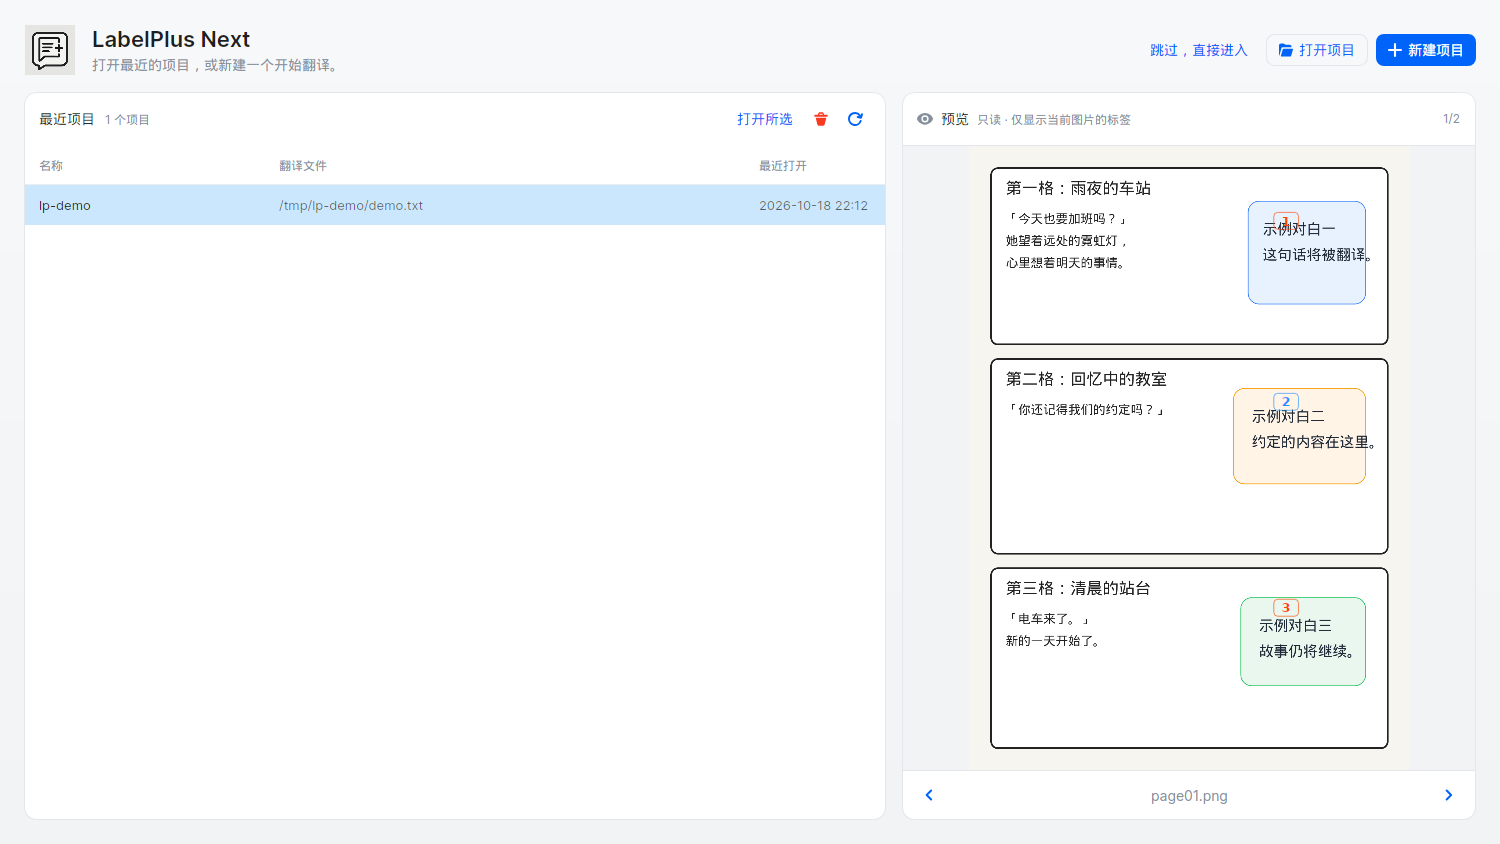
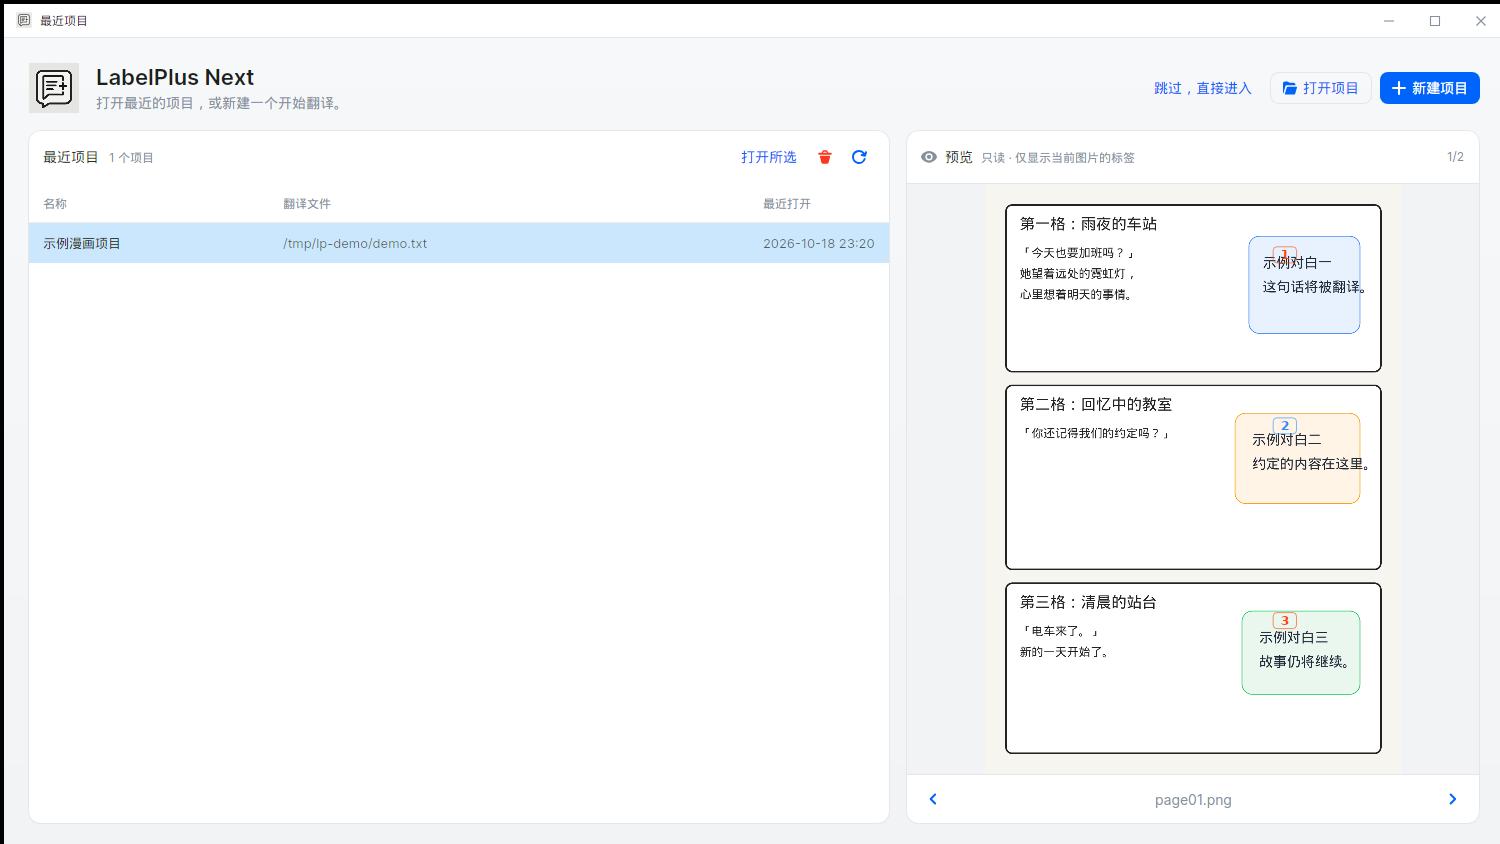
feat(ui): add an app-drawn title bar and fix the zoom display
- add a reusable ChromeTitleBar with drag, double-click maximize and caption buttons
- switch the main and startup windows to BorderOnly window decorations and hide the native title bar
- keep native resize borders while drawing the complete title bar in the app theme
- replace the zoom ComboBox with an always-visible percentage stepper (reset on click)
- add a drag threshold before starting label reordering to stop accidental row movement
- refresh screenshots for the new chrome and zoom control

diff --git a/LabelPlus_Next/Views/Pages/TranslateView.axaml.cs b/LabelPlus_Next/Views/Pages/TranslateView.axaml.cs
@@ -31,6 +31,10 @@ public partial class TranslateView : UserControl
     private static readonly DataFormat<LabelItem> DragDataFormat =
         DataFormat.CreateInProcessFormat<LabelItem>("application/x-labelplus-labelitem");
     private Control? _lastDropHintRow;
+    private LabelItem? _dragCandidate;
+    private PointerPressedEventArgs? _dragStartArgs;
+    private Point _dragStartPosition;
+    private const double DragThreshold = 4;
 
     public TranslateView() { InitializeComponent(); }
 
@@ -59,6 +63,8 @@ public partial class TranslateView : UserControl
             _labelsGrid.GotFocus += OnGridGotFocus;
             // 拖拽排序事件
             _labelsGrid.AddHandler(InputElement.PointerPressedEvent, OnGridPointerPressed, RoutingStrategies.Tunnel);
+            _labelsGrid.AddHandler(InputElement.PointerMovedEvent, OnGridPointerMoved, RoutingStrategies.Tunnel);
+            _labelsGrid.AddHandler(InputElement.PointerReleasedEvent, OnGridPointerReleased, RoutingStrategies.Tunnel);
             _labelsGrid.AddHandler(DragDrop.DragOverEvent, OnGridDragOver, RoutingStrategies.Bubble);
             _labelsGrid.AddHandler(DragDrop.DropEvent, OnGridDrop, RoutingStrategies.Bubble);
             _labelsGrid.AddHandler(DragDrop.DragLeaveEvent, OnGridDragLeave, RoutingStrategies.Bubble);
@@ -315,9 +321,11 @@ public partial class TranslateView : UserControl
         await Vm.AddLabelAtAsync((float)e.XPercent, (float)e.YPercent, e.Category);
     }
 
-    // 拖拽排序：在行上按下启动拖拽
-    private async void OnGridPointerPressed(object? sender, PointerPressedEventArgs e)
+    // 拖拽排序：按下时只记录候选项，移动超过阈值后才真正启动拖拽，
+    // 避免普通点选标签时误触发拖动并改变顺序。
+    private void OnGridPointerPressed(object? sender, PointerPressedEventArgs e)
     {
+        ClearDragCandidate();
         if (_labelsGrid is null) return;
         var props = e.GetCurrentPoint(_labelsGrid).Properties;
         if (!props.IsLeftButtonPressed) return;
@@ -332,13 +340,46 @@ public partial class TranslateView : UserControl
             }
             if (container?.DataContext is LabelItem item)
             {
-                var data = new DataTransfer();
-                var dragItem = new DataTransferItem();
-                dragItem.Set(DragDataFormat, item);
-                data.Add(dragItem);
-                await DragDrop.DoDragDropAsync(e, data, DragDropEffects.Move);
+                _dragCandidate = item;
+                _dragStartArgs = e;
+                _dragStartPosition = e.GetPosition(_labelsGrid);
             }
         }
+    }
+
+    private async void OnGridPointerMoved(object? sender, PointerEventArgs e)
+    {
+        if (_labelsGrid is null || _dragCandidate is null || _dragStartArgs is null) return;
+        if (!e.GetCurrentPoint(_labelsGrid).Properties.IsLeftButtonPressed)
+        {
+            ClearDragCandidate();
+            return;
+        }
+
+        var position = e.GetPosition(_labelsGrid);
+        if (Math.Abs(position.X - _dragStartPosition.X) < DragThreshold &&
+            Math.Abs(position.Y - _dragStartPosition.Y) < DragThreshold)
+        {
+            return;
+        }
+
+        var item = _dragCandidate;
+        var startArgs = _dragStartArgs;
+        ClearDragCandidate();
+
+        var data = new DataTransfer();
+        var dragItem = new DataTransferItem();
+        dragItem.Set(DragDataFormat, item);
+        data.Add(dragItem);
+        await DragDrop.DoDragDropAsync(startArgs, data, DragDropEffects.Move);
+    }
+
+    private void OnGridPointerReleased(object? sender, PointerReleasedEventArgs e) => ClearDragCandidate();
+
+    private void ClearDragCandidate()
+    {
+        _dragCandidate = null;
+        _dragStartArgs = null;
     }
 
     // 工具：找到 DataGridRow 控件（无需引用其类型，按名称匹配）
@@ -494,6 +535,9 @@ public partial class TranslateView : UserControl
     private void CategoryOuter_OnClick(object? sender, RoutedEventArgs e) { Vm?.SetSelectedCategory(2); }
     private void PrevImage_OnClick(object? sender, RoutedEventArgs e) { MoveImageSelection(-1); }
     private void NextImage_OnClick(object? sender, RoutedEventArgs e) { MoveImageSelection(1); }
+    private void ZoomIn_OnClick(object? sender, RoutedEventArgs e) => _picViewer?.ZoomIn();
+    private void ZoomOut_OnClick(object? sender, RoutedEventArgs e) => _picViewer?.ZoomOut();
+    private void ZoomReset_OnClick(object? sender, RoutedEventArgs e) => _picViewer?.ResetZoom();
     private async void FileSetting_OnClick(object? sender, RoutedEventArgs e)
     {
         if (Vm is not { } vm) return;

diff --git a/LabelPlus_Next/CustomControls/ChromeTitleBar.axaml.cs b/LabelPlus_Next/CustomControls/ChromeTitleBar.axaml.cs
@@ -1,0 +1,96 @@
+using Avalonia;
+using Avalonia.Controls;
+using Avalonia.Input;
+using Avalonia.Markup.Xaml;
+
+namespace LabelPlus_Next.CustomControls;
+
+/// <summary>
+/// App-drawn title bar used when the main windows opt out of native decorations.
+/// Keeps the caption buttons and drag behaviour identical on Windows, Linux and macOS.
+/// </summary>
+public partial class ChromeTitleBar : UserControl
+{
+    public static readonly StyledProperty<string?> TitleProperty =
+        AvaloniaProperty.Register<ChromeTitleBar, string?>(nameof(Title), "LabelPlus Next");
+
+    private Window? _window;
+
+    public ChromeTitleBar()
+    {
+        InitializeComponent();
+        DataContext = this;
+    }
+
+    public string? Title
+    {
+        get => GetValue(TitleProperty);
+        set => SetValue(TitleProperty, value);
+    }
+
+    private void InitializeComponent() => AvaloniaXamlLoader.Load(this);
+
+    protected override void OnAttachedToVisualTree(VisualTreeAttachmentEventArgs e)
+    {
+        base.OnAttachedToVisualTree(e);
+        _window = TopLevel.GetTopLevel(this) as Window;
+        if (_window is not null)
+        {
+            _window.PropertyChanged += OnWindowPropertyChanged;
+            UpdateWindowState();
+        }
+    }
+
+    protected override void OnDetachedFromVisualTree(VisualTreeAttachmentEventArgs e)
+    {
+        if (_window is not null) _window.PropertyChanged -= OnWindowPropertyChanged;
+        _window = null;
+        base.OnDetachedFromVisualTree(e);
+    }
+
+    private void OnWindowPropertyChanged(object? sender, AvaloniaPropertyChangedEventArgs e)
+    {
+        if (e.Property == Window.WindowStateProperty) UpdateWindowState();
+    }
+
+    private void UpdateWindowState()
+    {
+        if (MaximizeGlyph is null || RestoreGlyph is null || MaximizeButton is null) return;
+        var maximized = _window?.WindowState == WindowState.Maximized;
+        MaximizeGlyph.IsVisible = !maximized;
+        RestoreGlyph.IsVisible = maximized;
+        ToolTip.SetTip(MaximizeButton, maximized ? "还原" : "最大化");
+    }
+
+    private void OnDragAreaPointerPressed(object? sender, PointerPressedEventArgs e)
+    {
+        if (_window is null) return;
+        if (!e.GetCurrentPoint(this).Properties.IsLeftButtonPressed) return;
+
+        if (e.ClickCount == 2)
+        {
+            ToggleMaximize();
+            e.Handled = true;
+            return;
+        }
+
+        _window.BeginMoveDrag(e);
+    }
+
+    private void OnMinimizeClick(object? sender, Avalonia.Interactivity.RoutedEventArgs e)
+    {
+        if (_window is not null) _window.WindowState = WindowState.Minimized;
+    }
+
+    private void OnMaximizeClick(object? sender, Avalonia.Interactivity.RoutedEventArgs e) => ToggleMaximize();
+
+    private void ToggleMaximize()
+    {
+        if (_window is null) return;
+        _window.WindowState = _window.WindowState == WindowState.Maximized
+            ? WindowState.Normal
+            : WindowState.Maximized;
+    }
+
+    private void OnCloseClick(object? sender, Avalonia.Interactivity.RoutedEventArgs e) => _window?.Close();
+}

diff --git a/LabelPlus_Next/CustomControls/PicViewer.cs b/LabelPlus_Next/CustomControls/PicViewer.cs
@@ -630,4 +630,13 @@ public class PicViewer : TemplatedControl
         if (item is null) return;
         CenterOnPercent(item.XPercent, item.YPercent);
     }
+
+    /// <summary>Zoom in by one step (matches the mouse-wheel step).</summary>
+    public void ZoomIn() => Scale = Math.Min(Scale * 1.1, 8.0);
+
+    /// <summary>Zoom out by one step, never below the viewer's minimum scale.</summary>
+    public void ZoomOut() => Scale = Math.Max(Scale / 1.1, _sourceMinScale);
+
+    /// <summary>Reset to the default fit scale.</summary>
+    public void ResetZoom() => Scale = 1.0;
 }

diff --git a/README.md b/README.md
@@ -53,7 +53,7 @@
 <td width="33%" valign="top">
 
 ### 🎨 现代界面
-全面采用 **Semi Design** 设计语言：统一的 4px 间距节奏、圆角与阴影层级，浅色 / 深色主题同步切换；按钮、数据表格与进度条均有平滑过渡，面板可拖动调整大小。
+全面采用 **Semi Design** 设计语言：统一的 4px 间距节奏、圆角与阴影层级，自绘无边框标题栏，浅色 / 深色主题同步切换；按钮、数据表格与进度条均有平滑过渡，面板可拖动调整大小。
 
 </td>
 </tr>
